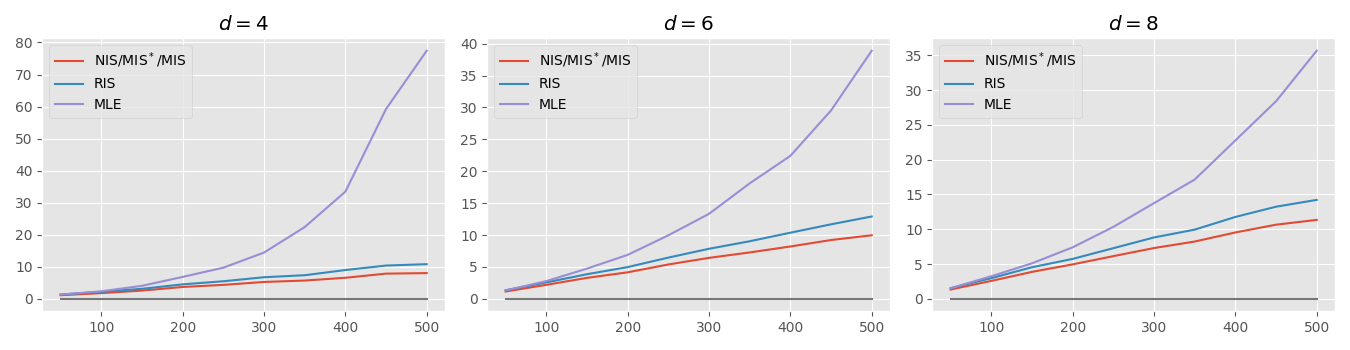
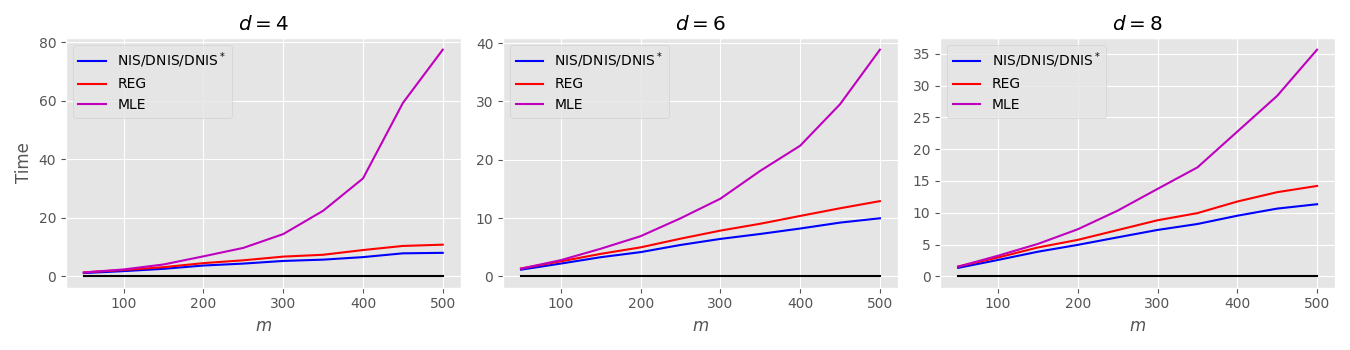
hhh

diff --git a/niscv_v2/analysis/simulation/kernel_number_D.py b/niscv_v2/analysis/simulation/kernel_number_D.py
@@ -35,6 +35,11 @@ def draw(dim, ax):
         # ax[i].set_ylabel('nMSE/nVar')
         ax[i].set_title('$d$={}, $c$={}, sn={}'.format(dim, setting[0], setting[1]))
         ax[i].grid(which='both')
+        if (setting[0] in {1, 3, -1}) and (not setting[1]):
+            ax[i].set_ylabel('Error')
+
+        if setting[0] < 0:
+            ax[i].set_xlabel('$m$')
 
     groups = np.arange(ax.size).reshape([-1, 2])
     for group in groups:

diff --git a/niscv_v2/analysis/real/garch_estimate.py b/niscv_v2/analysis/real/garch_estimate.py
@@ -38,6 +38,10 @@ def main():
         ax[0].semilogy(scenarios, nVar[:, i], '.', c=colors[i])
         ax[1].semilogy(scenarios, nMSE_time[:, i], c=colors[i], label=est)
 
+    ax[0].set_xlabel(r'$(D,\alpha)$')
+    ax[1].set_xlabel(r'$(D,\alpha)$')
+    ax[0].set_ylabel('Error')
+    ax[1].set_ylabel(r'$\mathrm{Error}\times\mathrm{Time}$')
     for a in ax:
         a.legend(loc=2)
         a.grid(axis='x', which='major')

diff --git a/niscv_v2/analysis/simulation/resampling_ratio_D.py b/niscv_v2/analysis/simulation/resampling_ratio_D.py
@@ -42,6 +42,11 @@ def draw(dim, ax):
                    [0.8 * min(nMSEst[i, :, -1].min(), nMSEsp[i, :, -1].min()), 1.3], 'c-.', label='Ref')
         ax[i].set_title('$d$={}, $c$={}'.format(dim, setting))
         ax[i].grid(which='both')
+        if setting in {1, 3, -1}:
+            ax[i].set_ylabel('Error')
+
+        if setting < 0:
+            ax[i].set_xlabel('$r_\mathrm{SIR}$')
 
 
 def main(dim):

diff --git a/niscv_v2/analysis/real/garch_bdwth.py b/niscv_v2/analysis/real/garch_bdwth.py
@@ -21,6 +21,10 @@ def main():
         a.semilogy(bdwths, data[:, 2 * i + 1], label=r'$\alpha=0.01$')
         a.set_title('$D={}$'.format(Ds[i]))
         a.legend(loc=1)
+        if i == 0:
+            a.set_ylabel(r'Estimate of $\mathrm{min}_{\mathbf{\beta}}\sigma_{D,\alpha}^2(\mathbf{\beta})$')
+
+        a.set_xlabel('$h$')
 
     fig.tight_layout()
     fig.show()

diff --git a/niscv_v2/analysis/simulation/clustering_group_D.py b/niscv_v2/analysis/simulation/clustering_group_D.py
@@ -38,6 +38,10 @@ def draw(dim, ax):
         ax[i].set_title('$d$={}, $c$={}'.format(dim, setting))
         ax[i].grid(axis='x', which='major')
         ax[i].grid(axis='both', which='both')
+        if setting == -1:
+            ax[i].set_ylabel('Error')
+
+        ax[i].set_xlabel('cluster state')
 
 
 def main(dim):

diff --git a/niscv_v2/analysis/simulation/sample_cost_D.py b/niscv_v2/analysis/simulation/sample_cost_D.py
@@ -30,6 +30,10 @@ def main():
         ax[i].plot([1000, 100000], [0, 0], color='k')
         ax[i].set_title('$d={}$'.format(dim))
         ax[i].legend(loc=2)
+        if dim == 4:
+            ax[i].set_ylabel('Time')
+
+        ax[i].set_xlabel('$n$')
 
     fig.tight_layout()
     fig.show()

diff --git a/niscv_v2/analysis/simulation/kernel_cost_D.py b/niscv_v2/analysis/simulation/kernel_cost_D.py
@@ -30,6 +30,10 @@ def main():
         ax[i].plot([50, 500], [0, 0], color='k')
         ax[i].set_title('$d={}$'.format(dim))
         ax[i].legend(loc=2)
+        if dim == 4:
+            ax[i].set_ylabel('Time')
+
+        ax[i].set_xlabel('$m$')
 
     fig.tight_layout()
     fig.show()
